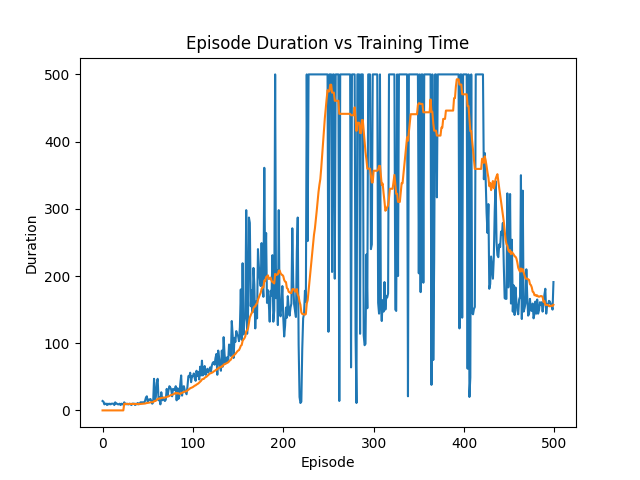
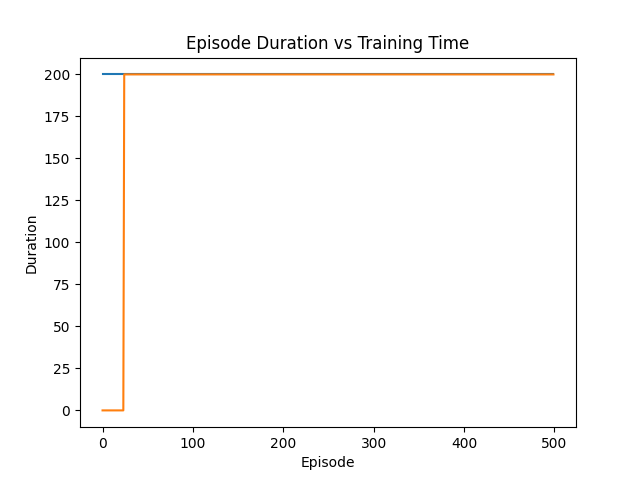
Changes to main.py and rerun with mountain car experiment.

diff --git a/main.py b/main.py
@@ -2,7 +2,7 @@ from trainer import Trainer
 import gymnasium as gym
 
 if __name__ == "__main__":
-    env = gym.make("CartPole-v1", render_mode='rgb_array')
+    env = gym.make("MountainCar-v0", render_mode='rgb_array')
     param_dict = {
         'policy_net_neurons': [4, 16, 32, 64, 64, 16, 2],
         'target_net_neurons': [4, 16, 32, 64, 64, 16, 2],
@@ -10,7 +10,7 @@ if __name__ == "__main__":
         'epsilon_decay': 1E-4,
         'batch_size': 32,
         'num_episodes': 500,
-        'update_target_every': 1,
+        'update_target_every': 10,
         'ddqn': False,
         'learning_rate': 0.001
     }
